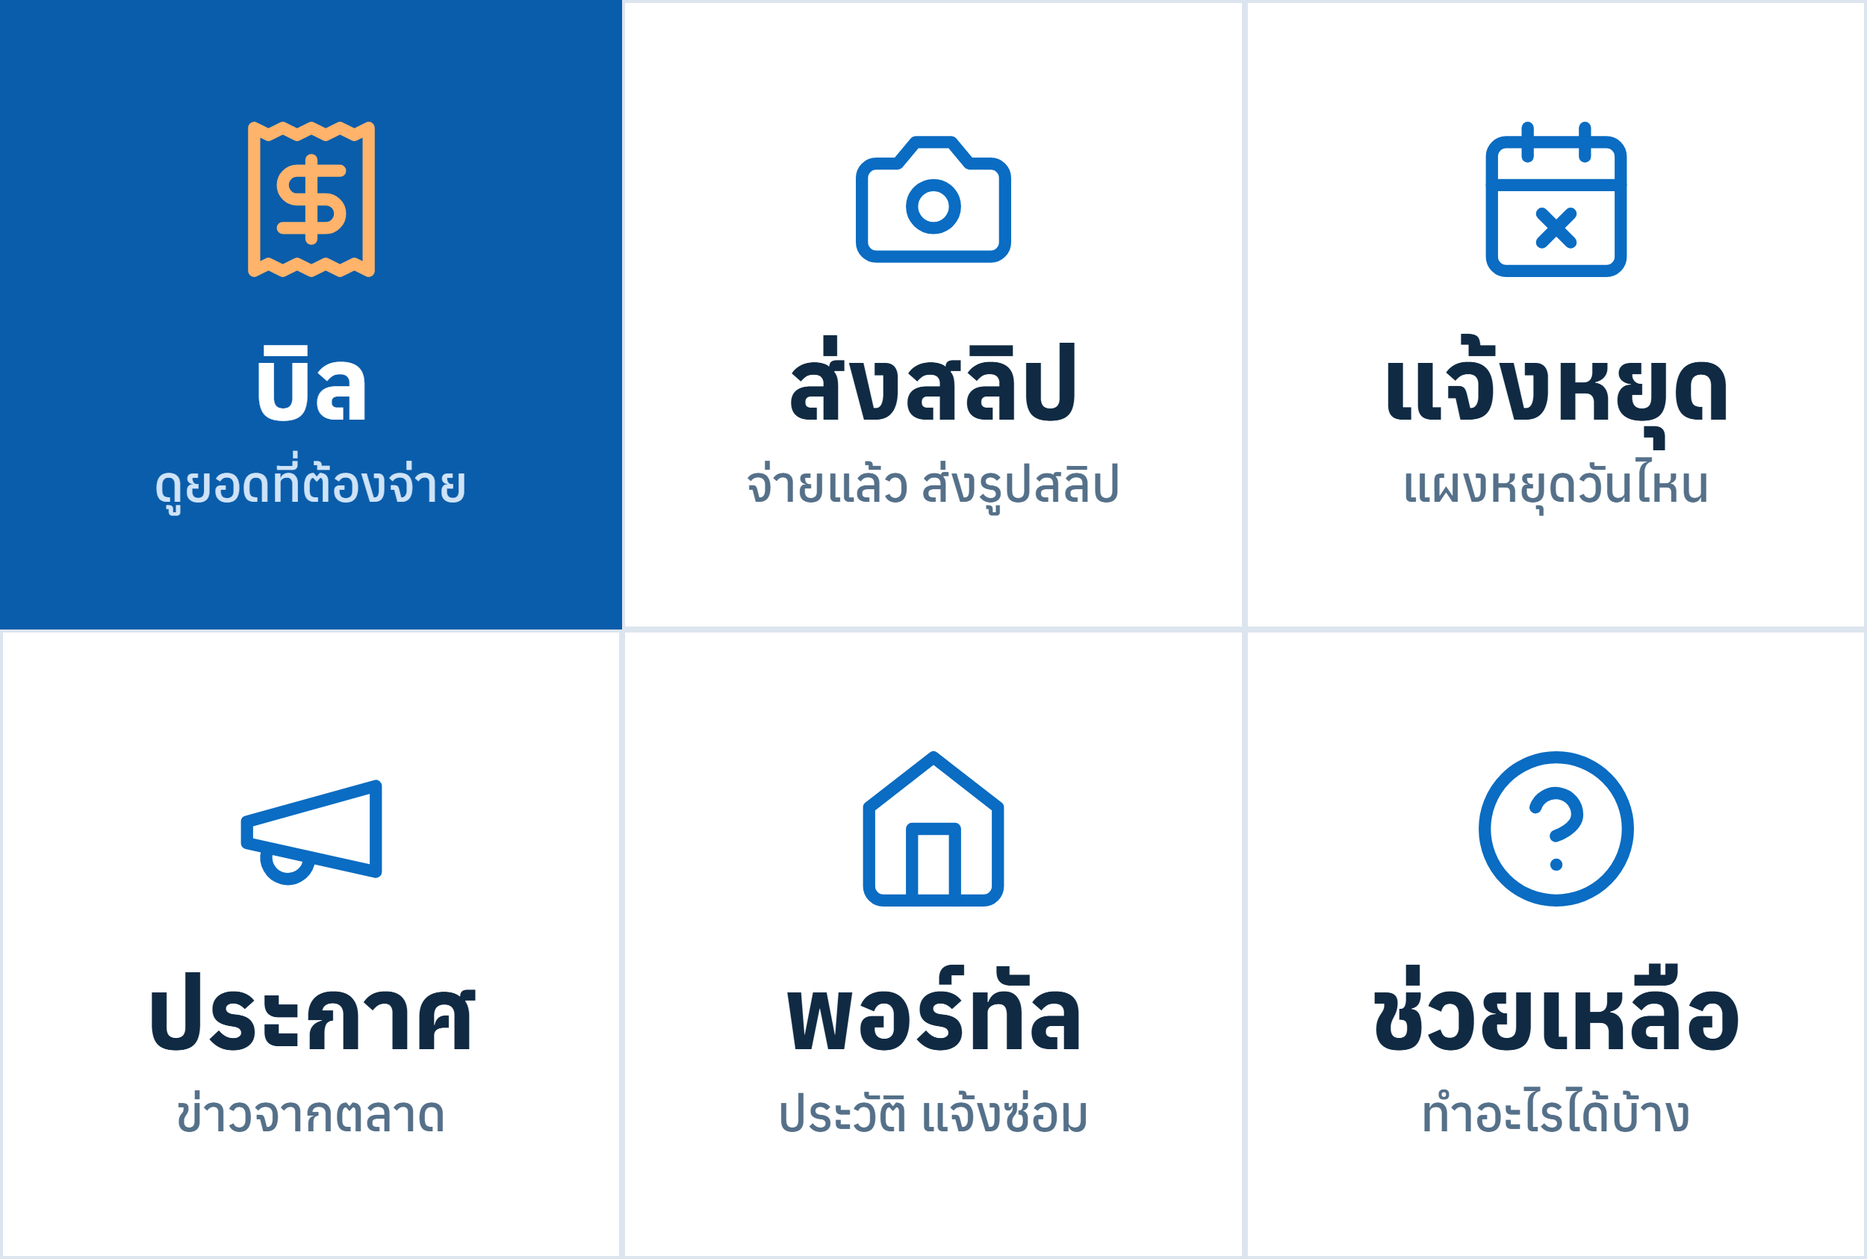
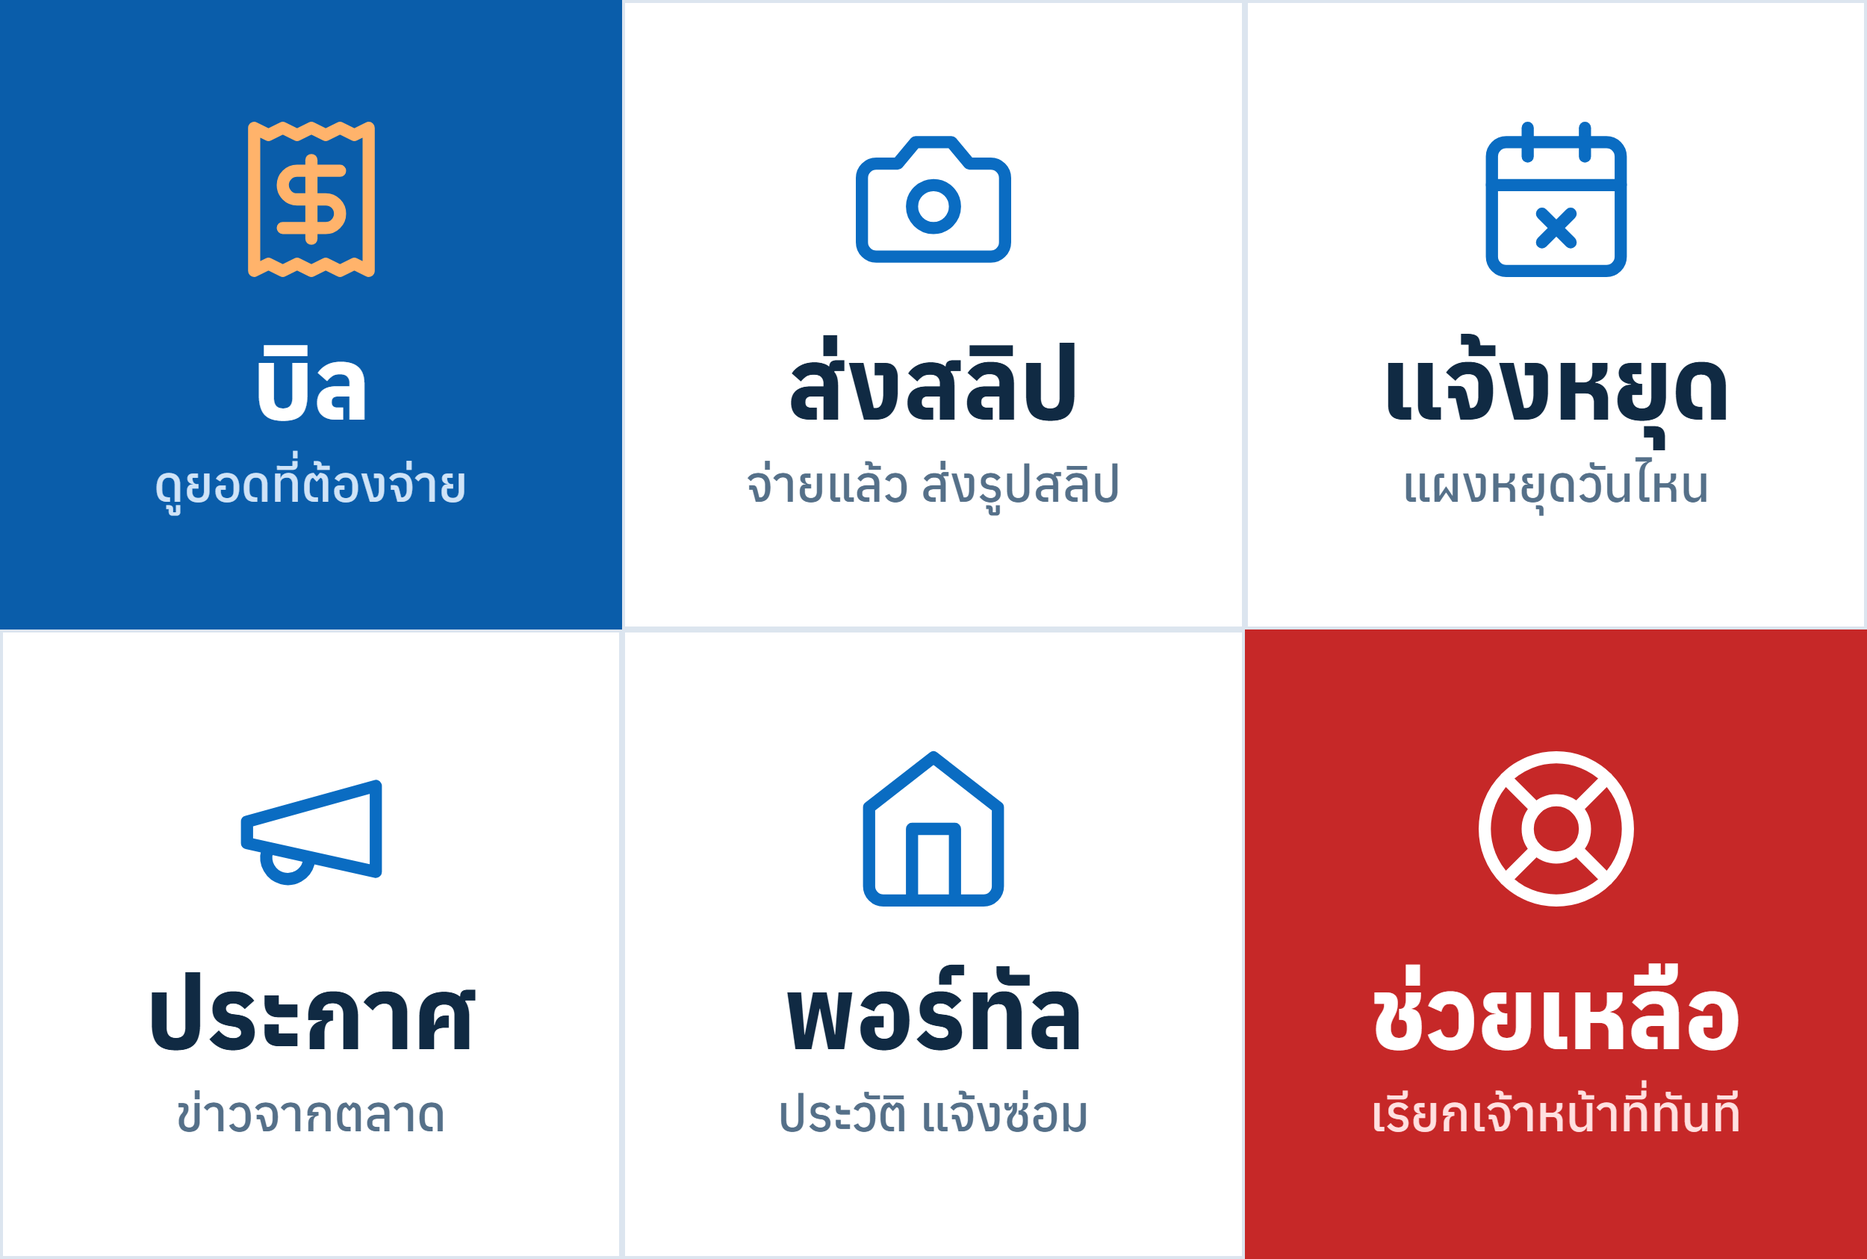
feat(line): "ช่วยเหลือ" button — tenants and vendors call a person at once
The tenant OA and HorCare Markets rich menus get a red "ช่วยเหลือ" tile that
sends "ขอความช่วยเหลือ" (new tenant-bot command `support`; "ช่วยเหลือ" /
"เมนู" typed still list the commands). Pressing it:
- raises a new alert kind, help_request ("ผู้เช่าขอความช่วยเหลือ"), titled
  with the unit and tenant name: in-app, phone push, and a LINE message on
  the team OA to everyone told who linked LINE there (raiseAlert `line`);
- flags the conversation (help_requested_at, unread): the inbox lists it
  first with a red "ขอความช่วยเหลือ" tag until it is read;
- tells the tenant it was passed on and to type what it is about.
A second press within 2 minutes is answered but does not ring again.

Rich menus: scripts/setup-oa-rich-menus.mjs gains the tenant OA menu
(บิล · ส่งสลิป · พอร์ทัล / ประกาศ · แจ้งซ่อม · ช่วยเหลือ); images re-rendered.

Changed region(s): [[0.6552, 0.4935, 1.0, 1.0]]

diff --git a/HorCare/api/line-webhook.ts b/HorCare/api/line-webhook.ts
@@ -287,6 +287,9 @@ async function dispatchEvent(event: LineEvent, lineUserId: string, replyToken: s
             : botText(notRegisteredText(market), GUEST_QUICK)]);
         return;
     }
+    // ── 2c3. ขอความช่วยเหลือ (rich menu) — a person at the property is told right away, with the room ──
+    if (cmd === 'support') { await handleSupport(lineUserId, replyToken); return; }
+
     // ── 2d. Rich Menu — ติดต่อแอดมิน ──────────────────────────────
     if (cmd === 'contact') {
         await lineReply(replyToken, [{
@@ -597,6 +600,44 @@ async function handleRoomNumber(
 /** The one room this OA deals with: the primary room's document as before, or the account's other room of this OA. */
 function thisRoom(primary: FirebaseFirestore.DocumentData, mine: LinkedRoom[]): FirebaseFirestore.DocumentData {
     return mine[0] && !sameRoom(mine[0], primary as LinkedRoom) ? mine[0] : primary;
+}
+
+/** A second press within this long does not ring everyone again (the tenant is still told it was passed on). */
+const HELP_ALERT_EVERY_MS = 2 * 60 * 1000;
+
+/**
+ * "ขอความช่วยเหลือ": the property's people who handle LINE messages are alerted at once — in the app, on their phone
+ * and on LINE if they linked the team OA — with the room and the tenant's name; the conversation is flagged in the
+ * inbox until someone reads it. The tenant is told it was passed on and can type what it is about.
+ */
+async function handleSupport(lineUserId: string, replyToken: string) {
+    const market = isMarket();
+    const link = await getTenantLink(lineUserId);
+    if (!link) { await lineReply(replyToken, [botText(notRegisteredText(market), GUEST_QUICK)]); return; }
+    const v = botVocab(market);
+    const base = `users/${link.uid}/buildings/${link.building_id}`;
+    const thread = db.doc(`${base}/line_threads/${lineUserId}`);
+    const was = (await thread.get()).data();
+    const prev = was?.help_requested_at as string | undefined;
+    if (!prev || Date.now() - Date.parse(prev) > HELP_ALERT_EVERY_MS) {
+        const now = new Date().toISOString();
+        // the press itself was kept quietly (dispatchEvent); here it becomes something waiting for a person
+        await thread.set({
+            help_requested_at: now, unread_count: Number(was?.unread_count ?? 0) + 1,
+            last_message_text: '🆘 ขอความช่วยเหลือ', last_message_at: now, last_direction: 'in',
+        }, { merge: true });
+        const name = (await db.doc(`${base}/tenants/${link.room_id}`).get()).data()?.full_name as string | undefined;
+        const place = (link as { dorm_name?: string }).dorm_name;
+        await raiseAlert({
+            ownerUid: link.uid, buildingId: link.building_id, type: 'help_request', line: true,
+            title: `🆘 ${v.unit} ${link.room_number}${name ? ` · ${name}` : ''} ขอความช่วยเหลือ`,
+            body: `${place ? `${place}: ` : ''}กดปุ่ม "ขอความช่วยเหลือ" ใน LINE — เข้าไปตอบในหน้าข้อความ LINE ได้เลย`,
+        });
+    }
+    await lineReply(replyToken, [botText(
+        `🆘 แจ้งเจ้าหน้าที่แล้วค่ะ (${v.unit} ${link.room_number})\n\nพิมพ์เรื่องที่ต้องการให้ช่วยในแชทนี้ได้เลย หรือส่งรูปประกอบได้ เจ้าหน้าที่จะตอบกลับในแชทนี้โดยเร็วที่สุดค่ะ 🙏`,
+        TENANT_QUICK,
+    )]);
 }
 
 /** ดูบิลล่าสุดของห้องที่ลงทะเบียน */

diff --git a/HorCare/api/_alerts.ts b/HorCare/api/_alerts.ts
@@ -18,6 +18,7 @@ import type { VercelRequest, VercelResponse } from '@vercel/node';
 import { randomUUID } from 'node:crypto';
 import { admin, db } from './_firebase.js';
 import { linePush, staffLineToken } from './_line.js';
+import { appBaseUrl } from './_app-url.js';
 import { isRole, permissionsForRole, type Permission } from '../src/shared/permissions.js';
 import {
     ALERT_INFO, canReceiveAlert, cleanAlertPrefs, wantsAlert, wantsPush, type AlertPrefs, type AlertType, type InboxItem,
@@ -40,6 +41,11 @@ export interface AlertInput {
     kind?: string;
     /** The account that caused it: nobody needs to be told what they just did. */
     exceptUid?: string | null;
+    /**
+     * Also a LINE message to everyone told who linked LINE on the team OA (owner_line): for what needs a person now,
+     * like a tenant asking for help. Same people as the app alert (role, property, their own switch), nobody else.
+     */
+    line?: boolean;
 }
 
 /** The accounts that may be told about this kind of thing at this property: the owner, then eligible members. */
@@ -98,6 +104,7 @@ export async function raiseAlert(input: AlertInput): Promise<{ recipients: numbe
     try {
         const uids = (await recipientsOf(input.ownerUid, input.buildingId, input.type)).filter(u => u !== input.exceptUid);
         const now = new Date().toISOString();
+        const told: string[] = [];
         await Promise.all(uids.map(async uid => {
             try {
                 const prefs = ((await prefsRef(uid).get()).data() ?? {}) as AlertPrefs;
@@ -109,16 +116,37 @@ export async function raiseAlert(input: AlertInput): Promise<{ recipients: numbe
                 };
                 await db.doc(`users/${uid}/inbox/${item.id}`).set(item);
                 recipients++;
+                told.push(uid);
                 if (wantsPush(prefs)) pushed += await pushToDevices(uid, item).catch(() => 0);
                 if (Math.random() < 0.05) await pruneInbox(uid).catch(() => undefined);
             } catch (err) {
                 console.error(`[alerts] ${input.type} → ${uid} failed:`, (err as Error).message);
             }
         }));
+        if (input.line && told.length) pushed += await pushToLinkedAdmins(input, told);
     } catch (err) {
         console.error('[alerts] failed:', (err as Error).message);
     }
     return { recipients, pushed };
+}
+
+/** The alert as a LINE message to the told accounts that linked LINE on the team OA. Returns how many were sent. */
+async function pushToLinkedAdmins(input: AlertInput, told: string[]): Promise<number> {
+    const token = staffLineToken();
+    if (!token) return 0;
+    const links = (await db.collection('owner_line').where('owner_uid', '==', input.ownerUid).get()).docs
+        .filter(d => told.includes(String(d.data().account_uid)));
+    const url = `${appBaseUrl()}${input.url ?? ALERT_INFO[input.type].url}`;
+    let sent = 0;
+    await Promise.all(links.map(async d => {
+        try {
+            await linePush(d.id, [{ type: 'text', text: `${input.title}\n${input.body}\n\nเปิดตอบ: ${url}`.slice(0, 4900) }], token);
+            sent++;
+        } catch (err) {
+            console.error('[alerts] LINE admin push failed:', (err as Error).message);
+        }
+    }));
+    return sent;
 }
 
 /**

diff --git a/HorCare/src/shared/tenantBot.ts b/HorCare/src/shared/tenantBot.ts
@@ -2,7 +2,7 @@
 // the same conversation. Pure: the webhook decides what to do, this file decides what a message means and how to word it.
 import { normalizeForMatch } from './chatbot.js';
 
-export type TenantCommand = 'bill' | 'slip' | 'portal' | 'repair' | 'announcements' | 'contact' | 'register' | 'cancel' | 'help' | 'close_shop' | 'my_closures';
+export type TenantCommand = 'bill' | 'slip' | 'portal' | 'repair' | 'announcements' | 'contact' | 'register' | 'cancel' | 'help' | 'support' | 'close_shop' | 'my_closures';
 
 /**
  * Whole-message matches only (after normalizing), never "contains": "บิลเดือนที่แล้วผิดค่ะ ช่วยดูหน่อย" is a message for
@@ -18,6 +18,8 @@ const COMMANDS: Record<TenantCommand, string[]> = {
     close_shop: ['แจ้งหยุด', 'แจ้งหยุดร้าน', 'หยุดร้าน', 'ปิดร้าน', 'แจ้งปิดร้าน'],
     my_closures: ['วันหยุดที่แจ้ง', 'ดูวันหยุด', 'ยกเลิกแจ้งหยุด'],
     contact: ['ติดต่อแอดมิน'],
+    // the rich menu's help button: a person at the property is told right away (not the HorCare team: that is contact)
+    support: ['ขอความช่วยเหลือ', 'ต้องการความช่วยเหลือ', 'ความช่วยเหลือ', 'เรียกเจ้าหน้าที่', 'ติดต่อเจ้าหน้าที่', 'ขอคุยกับเจ้าหน้าที่', 'คุยกับเจ้าหน้าที่', 'ติดต่อเจ้าของหอ', 'ติดต่อเจ้าของตลาด', 'ติดต่อนิติ', 'sos'],
     register: ['ลงทะเบียน', 'register'],
     cancel: ['ยกเลิก', 'cancel'],
     help: ['ช่วยเหลือ', 'เมนู', 'วิธีใช้', 'คำสั่ง', 'ทำอะไรได้บ้าง', 'help', 'menu'],
@@ -67,7 +69,8 @@ const menuLines = (v: BotVocab) =>
     '• "บิล" — ดูบิลล่าสุด\n' +
     '• "ส่งสลิป" — แจ้งชำระด้วยรูปสลิปโอนเงิน\n' +
     '• "พอร์ทัล" — ประวัติบิล สถานะการชำระ และแจ้งซ่อม\n' +
-    `• "ประกาศ" — ประกาศล่าสุดจาก${v.place}`;
+    `• "ประกาศ" — ประกาศล่าสุดจาก${v.place}\n` +
+    `• "ขอความช่วยเหลือ" — เรียกเจ้าหน้าที่${v.place}ทันที`;
 
 export function helpText(registered: boolean, market: boolean): string {
     const v = botVocab(market);

diff --git a/HorCare/src/components/Messages/MessagesPage.tsx b/HorCare/src/components/Messages/MessagesPage.tsx
@@ -3,7 +3,7 @@ import { MessageSquare, Search, Send, Loader2, ArrowLeft, MessageCircle, Play, M
 import toast from 'react-hot-toast';
 import { useThreadMessages } from '../../hooks/useLineThreads';
 import { apiPost, ApiError } from '../../utils/api';
-import { MAX_OUTGOING_CHARS, fileSizeText, mapUrl, stickerUrl, type LineMessage, type LineThread } from '../../shared/messages';
+import { MAX_OUTGOING_CHARS, fileSizeText, mapUrl, needsHelp, stickerUrl, type LineMessage, type LineThread } from '../../shared/messages';
 
 interface Props {
     ownerUid: string;
@@ -160,8 +160,9 @@ export default function MessagesPage({ ownerUid, buildingId, unitName, threads, 
 
     const filtered = useMemo(() => {
         const q = search.trim().toLowerCase();
-        if (!q) return threads;
-        return threads.filter(t => `${t.room_number} ${t.tenant_name ?? ''} ${t.last_message_text}`.toLowerCase().includes(q));
+        const shown = q ? threads.filter(t => `${t.room_number} ${t.tenant_name ?? ''} ${t.last_message_text}`.toLowerCase().includes(q)) : threads;
+        // someone who pressed "ขอความช่วยเหลือ" waits at the top until the conversation is opened
+        return [...shown.filter(needsHelp), ...shown.filter(t => !needsHelp(t))];
     }, [threads, search]);
 
     // Opening a conversation (or receiving a message while it's open) marks it read.
@@ -233,7 +234,10 @@ export default function MessagesPage({ ownerUid, buildingId, unitName, threads, 
                                     </div>
                                     <div style={{ minWidth: 0, flex: 1 }}>
                                         <div style={{ display: 'flex', justifyContent: 'space-between', gap: 6 }}>
-                                            <b style={{ overflow: 'hidden', textOverflow: 'ellipsis', whiteSpace: 'nowrap' }}>{t.tenant_name || `${unitName} ${t.room_number}`}</b>
+                                            <b style={{ overflow: 'hidden', textOverflow: 'ellipsis', whiteSpace: 'nowrap' }}>
+                                                {needsHelp(t) && <span style={{ background: '#DC2626', color: '#fff', borderRadius: 6, fontSize: '0.66rem', fontWeight: 800, padding: '1px 6px', marginRight: 6, verticalAlign: 'middle' }}>🆘 ขอความช่วยเหลือ</span>}
+                                                {t.tenant_name || `${unitName} ${t.room_number}`}
+                                            </b>
                                             <span style={{ fontSize: '0.7rem', color: 'var(--color-gray-500)', flexShrink: 0 }}>{when(t.last_message_at)}</span>
                                         </div>
                                         <div style={{ display: 'flex', justifyContent: 'space-between', gap: 6, alignItems: 'center' }}>

diff --git a/HorCare/api/_line-webhook-registration.test.ts b/HorCare/api/_line-webhook-registration.test.ts
@@ -183,6 +183,38 @@ describe('what the bot says', () => {
         expect(replied()).not.toContain('"101');
     });
 
+    it('"ขอความช่วยเหลือ" alerts the property at once, with the room, in the app and on the admin\'s LINE', async () => {
+        await scanCard();
+        seed(`users/${OWNER}/buildings/${BLD}/tenants/r101`, { full_name: 'สมชาย' });
+        seed(`owner_line/U${'d'.repeat(32)}`, { account_uid: OWNER, owner_uid: OWNER });
+        process.env.LINE_STAFF_CHANNEL_ACCESS_TOKEN = 'staff-token';
+        fetchMock.mockClear();
+        await post([text('ขอความช่วยเหลือ')]);
+
+        const alerts = listPaths(`users/${OWNER}/inbox/`).map(p => read(p)).filter(a => a?.type === 'help_request');
+        expect(alerts).toHaveLength(1);
+        expect(alerts[0]?.title).toContain('ห้อง 101');
+        expect(alerts[0]?.title).toContain('สมชาย');
+        const adminPush = fetchMock.mock.calls.find(([url, init]) => String(url).endsWith('/message/push') && JSON.parse(init.body).to === `U${'d'.repeat(32)}`);
+        expect(adminPush![1].headers.Authorization).toBe('Bearer staff-token');
+        expect(JSON.parse(adminPush![1].body).messages[0].text).toContain('ห้อง 101');
+        const thread = read(`users/${OWNER}/buildings/${BLD}/line_threads/${LINE_USER}`);
+        expect(thread?.help_requested_at).toBeTruthy();
+        expect(thread?.unread_count).toBe(1);
+        expect(reply()![0].text).toContain('แจ้งเจ้าหน้าที่แล้ว');
+
+        // pressing again straight away does not ring everyone again, but is still answered
+        fetchMock.mockClear();
+        await post([text('ขอความช่วยเหลือ')]);
+        expect(listPaths(`users/${OWNER}/inbox/`).map(p => read(p)).filter(a => a?.type === 'help_request')).toHaveLength(1);
+        expect(reply()![0].text).toContain('แจ้งเจ้าหน้าที่แล้ว');
+
+        // the next message keeps the flag; the inbox shows it waiting
+        await post([text('ไฟดับทั้งชั้นค่ะ')]);
+        expect(read(`users/${OWNER}/buildings/${BLD}/line_threads/${LINE_USER}`)?.help_requested_at).toBeTruthy();
+        delete process.env.LINE_STAFF_CHANNEL_ACCESS_TOKEN;
+    });
+
     it('an answer LINE turns down (reply token expired) is pushed instead, and kept in the inbox', async () => {
         await scanCard();
         fetchMock.mockClear();

diff --git a/HorCare/src/shared/alerts.ts b/HorCare/src/shared/alerts.ts
@@ -7,7 +7,7 @@
 import type { Permission } from './permissions.js';
 
 export const ALERT_TYPES = [
-    'staff_link', 'line_request', 'maintenance', 'cleaning', 'job_status', 'chat', 'payment', 'stock', 'monthly_summary',
+    'staff_link', 'line_request', 'maintenance', 'cleaning', 'job_status', 'help_request', 'chat', 'payment', 'stock', 'monthly_summary',
 ] as const;
 export type AlertType = (typeof ALERT_TYPES)[number];
 
@@ -41,6 +41,10 @@ export const ALERT_INFO: Record<AlertType, AlertInfo> = {
     job_status: {
         label: 'สถานะงานช่าง / แม่บ้าน', hint: 'รับงาน เริ่มงาน หรือทำเสร็จรอตรวจ',
         permissions: ['work_order.read', 'work_order.create'], url: '/?view=operations&tab=workorders',
+    },
+    help_request: {
+        label: 'ผู้เช่าขอความช่วยเหลือ', hint: 'ผู้เช่าหรือผู้ค้ากดปุ่ม "ขอความช่วยเหลือ" ใน LINE — รอคนเข้าไปตอบ',
+        permissions: ['message.read'], url: '/?view=messages',
     },
     chat: {
         label: 'แชทจากผู้เช่า', hint: 'ผู้เช่าส่งข้อความ รูป หรือไฟล์ทาง LINE',

diff --git a/HorCare/src/shared/messages.ts b/HorCare/src/shared/messages.ts
@@ -33,7 +33,12 @@ export interface LineThread {
   unread_count: number;
   /** When the tenant was last sent the automatic "we got your message" reply. */
   last_ack_at: string | null;
+  /** Last press of "ขอความช่วยเหลือ": the conversation is flagged while it has unread messages. */
+  help_requested_at?: string;
 }
+
+/** Waiting for a person after the tenant asked for help (and nobody has read it since). */
+export const needsHelp = (t: Pick<LineThread, 'help_requested_at' | 'unread_count'>): boolean => !!t.help_requested_at && t.unread_count > 0;
 
 export interface LineMessage {
   id: string;

diff --git a/HorCare/api/_line-inbox.ts b/HorCare/api/_line-inbox.ts
@@ -99,7 +99,7 @@ export async function recordInbound(
             unread_count: (prev?.unread_count ?? 0) + (input.quiet ? 0 : 1),
             last_ack_at: ack ? nowIso : (prev?.last_ack_at ?? null),
         };
-        tx.set(ref, thread);
+        tx.set(ref, thread, { merge: true });   // keeps what else the thread carries (help_requested_at)
         tx.set(db.doc(`${ref.path}/messages/${msg.id}`), msg);
         return ack;
     });
